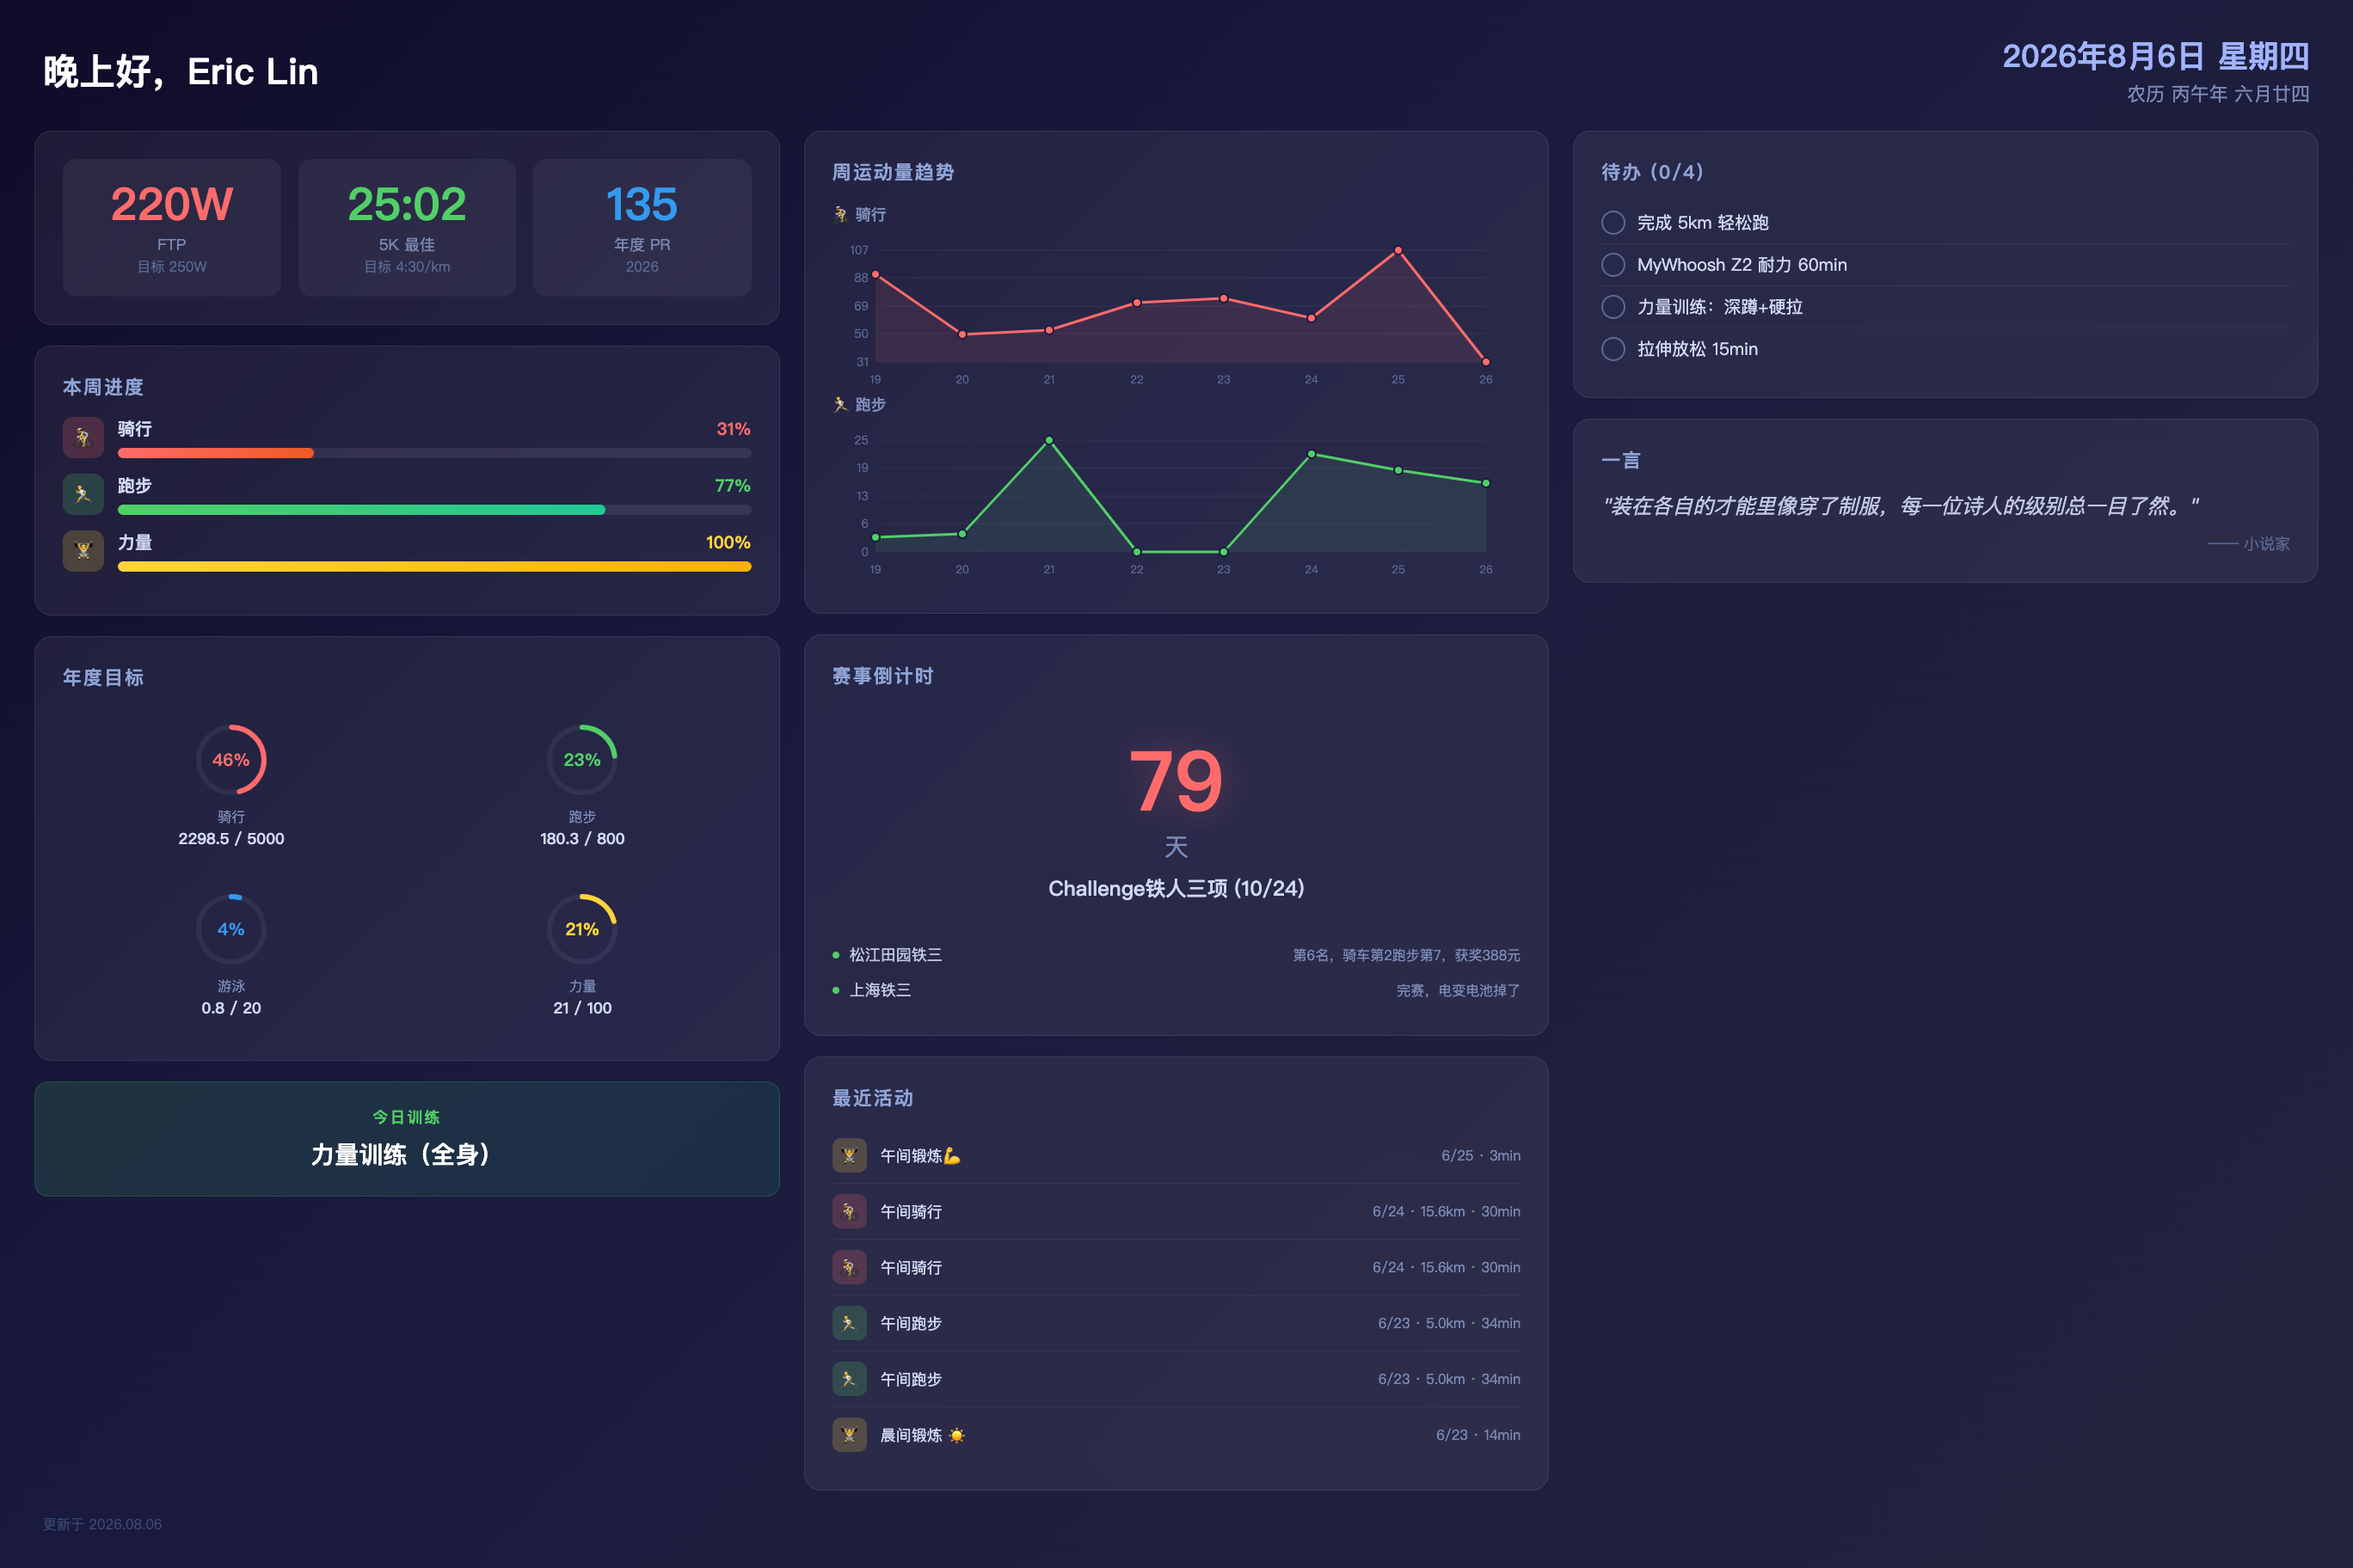
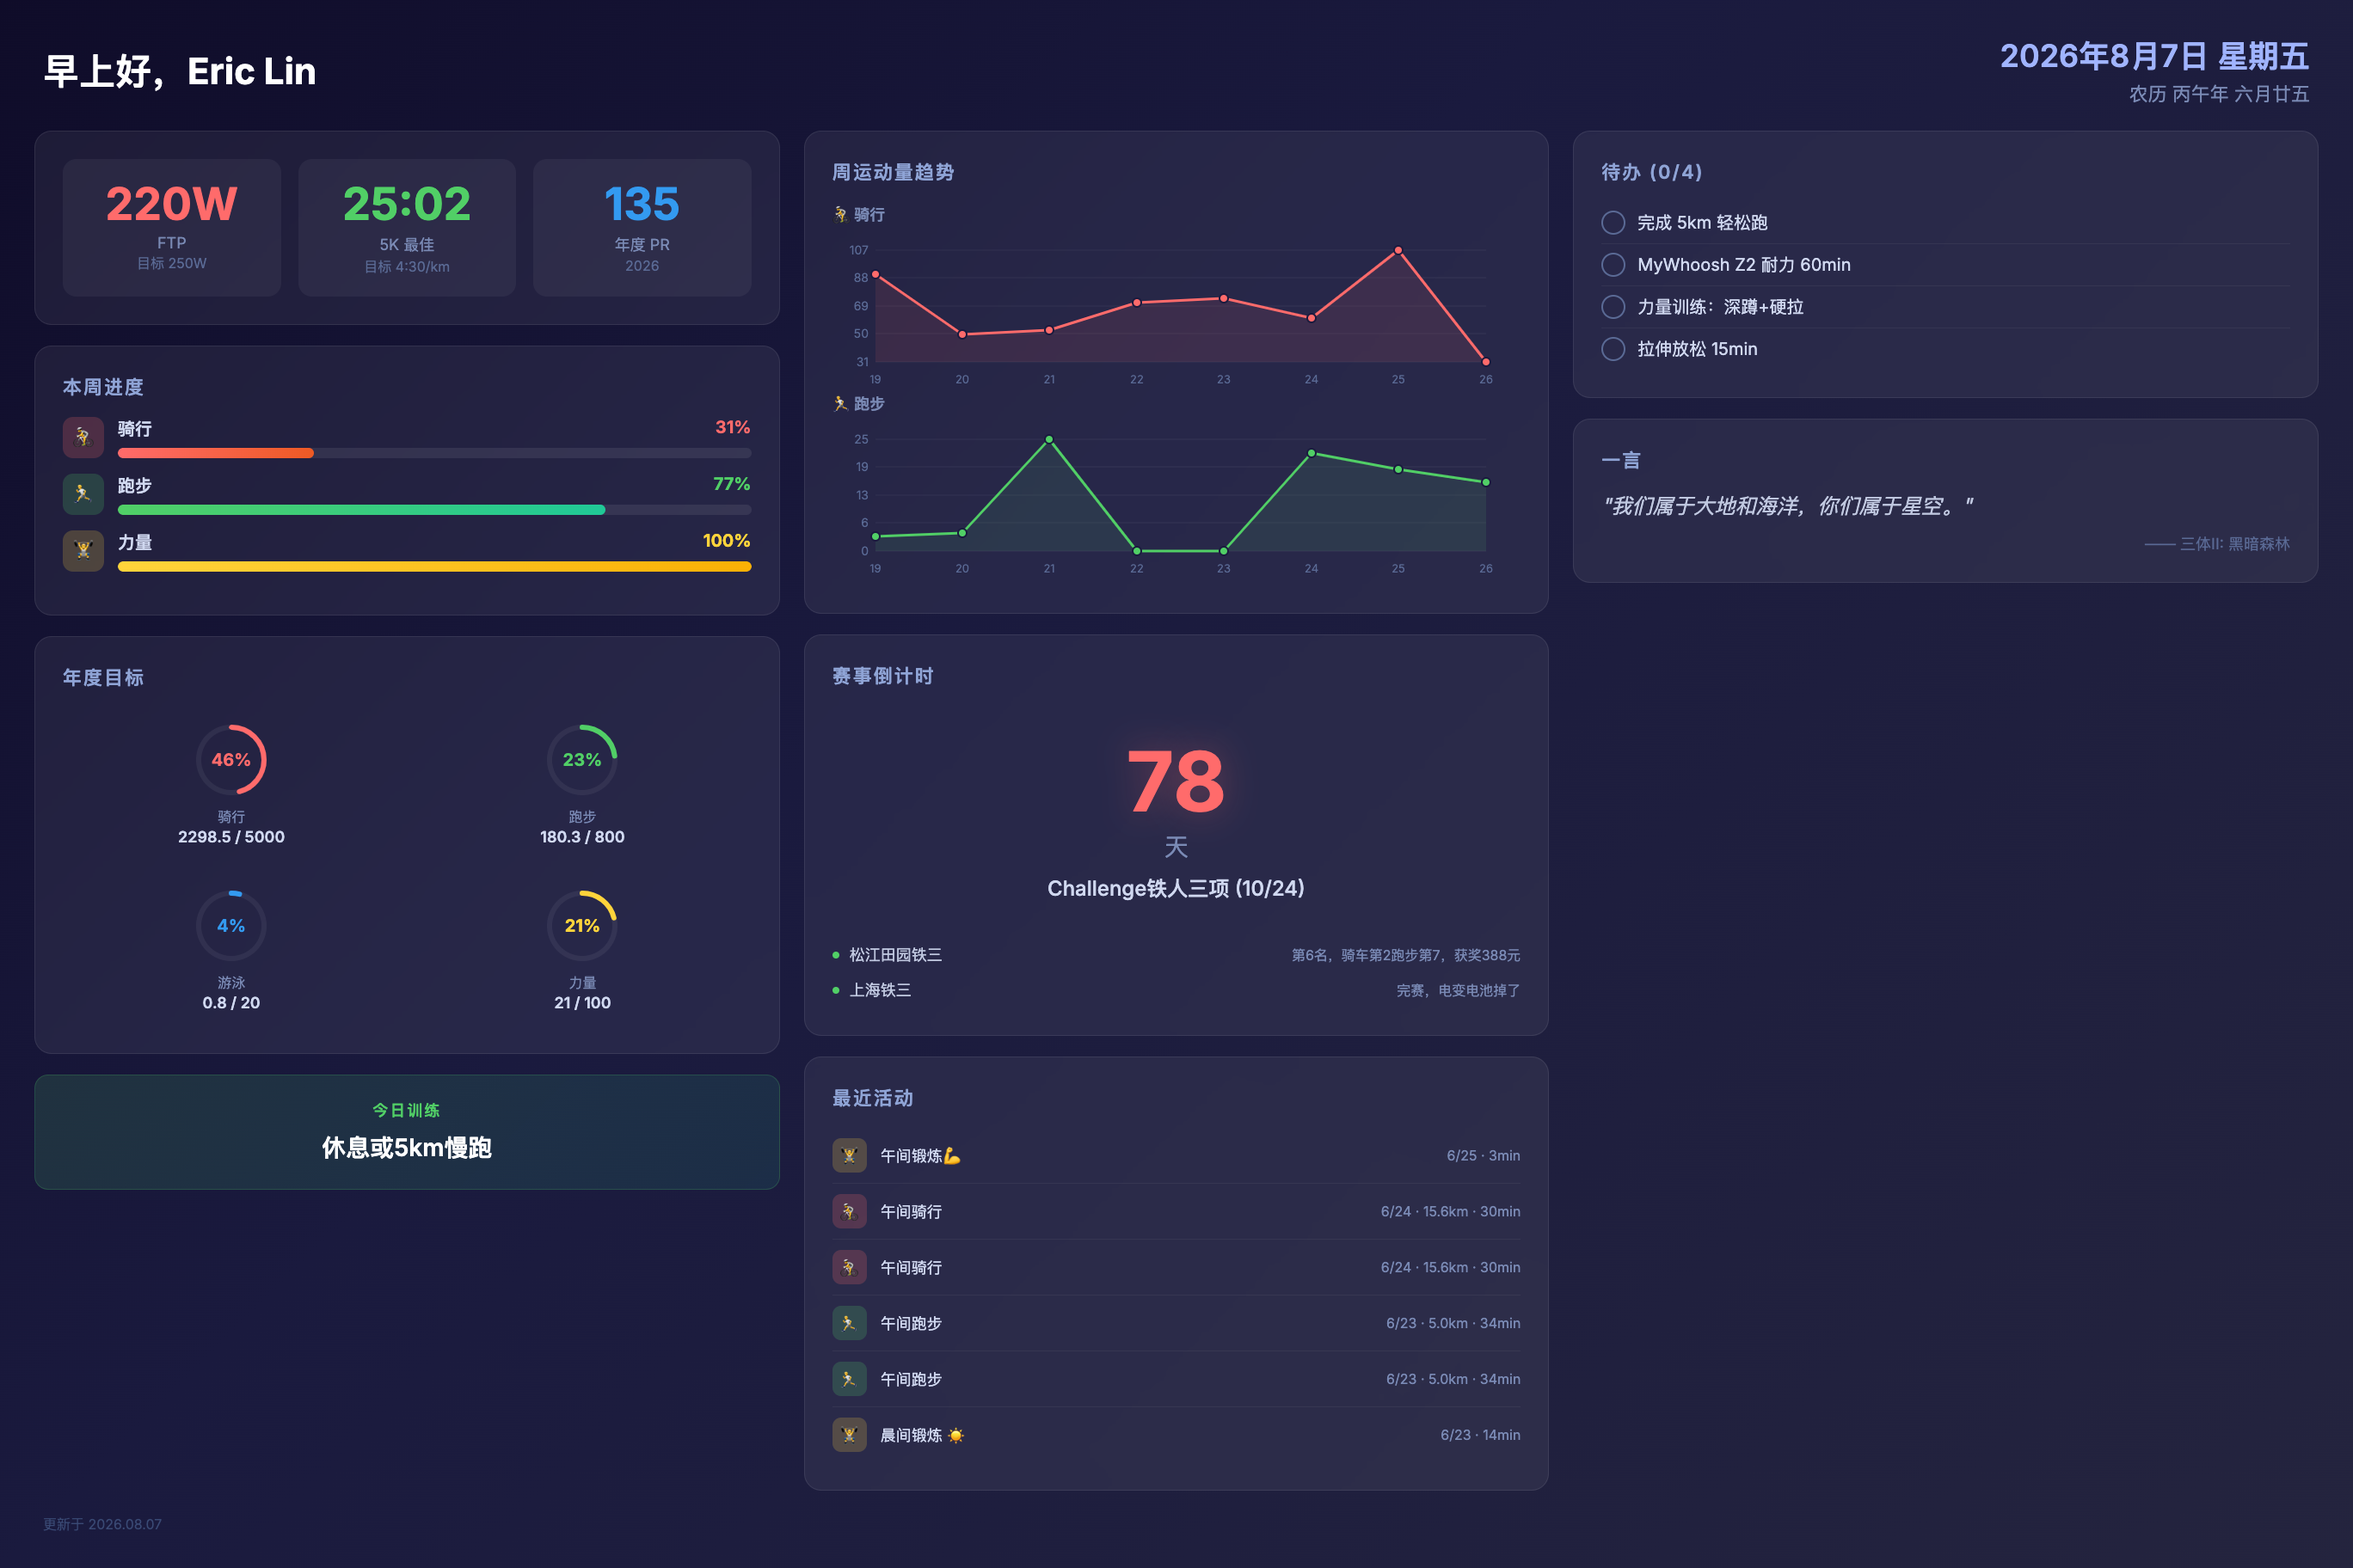
deploy: 2026-08-07-07:00

diff --git a/screensaver.html b/screensaver.html
@@ -490,13 +490,13 @@ html, body {
 <!-- ===== TOP BAR ===== -->
 <div class="top-bar">
   <div>
-    <div class="greeting">晚上好，Eric Lin</div>
+    <div class="greeting">早上好，Eric Lin</div>
     
   </div>
   <div class="date-info">
-    <div class="solar-date">2026年8月6日 星期四</div>
+    <div class="solar-date">2026年8月7日 星期五</div>
     
-    <div class="lunar-date">农历 丙午年 六月廿四</div>
+    <div class="lunar-date">农历 丙午年 六月廿五</div>
     
   </div>
 </div>
@@ -638,7 +638,7 @@ html, body {
   
   <div class="ai-today-card">
     <div class="ai-today-label">今日训练</div>
-    <div class="ai-today-text">力量训练（全身）</div>
+    <div class="ai-today-text">休息或5km慢跑</div>
   </div>
   
 
@@ -732,7 +732,7 @@ html, body {
   <div class="card">
     <div class="card-title">赛事倒计时</div>
     <div class="race-countdown">
-      <div class="countdown-number">79</div>
+      <div class="countdown-number">78</div>
       <div class="countdown-unit">天</div>
       <div class="countdown-name">Challenge铁人三项 (10/24)</div>
     </div>
@@ -850,9 +850,9 @@ html, body {
   
   <div class="card">
     <div class="card-title">一言</div>
-    <div class="quote-text">"装在各自的才能里像穿了制服，每一位诗人的级别总一目了然。"</div>
+    <div class="quote-text">"我们属于大地和海洋，你们属于星空。"</div>
     
-    <div class="quote-from">—— 小说家</div>
+    <div class="quote-from">—— 三体II: 黑暗森林</div>
     
   </div>
   
@@ -861,7 +861,7 @@ html, body {
 
 <!-- ===== BOTTOM BAR ===== -->
 <div class="bottom-bar">
-  <div class="update-time">更新于 2026.08.06</div>
+  <div class="update-time">更新于 2026.08.07</div>
 </div>
 
 </div>

diff --git a/index.html b/index.html
@@ -74,7 +74,7 @@ html, body {
 <table class="header-table">
   <tr>
     <td class="header-left">Eric Lin · 运动</td>
-    <td class="header-right">2026.08.06</td>
+    <td class="header-right">2026.08.07</td>
   </tr>
 </table>
 
@@ -225,17 +225,10 @@ html, body {
 <div class="ai-plan">
   <div class="ai-plan-title">AI 训练建议</div>
   
-  <div class="ai-today">今日: MyWhoosh 间歇 6×3min 高功率</div>
+  <div class="ai-today">今日: 力量训练（全身）</div>
   
   
   <table class="ai-weekly">
-    
-    <tr>
-      <td class="day">周四</td>
-      
-      <td>MyWhoosh 间歇 6×3min 高功率</td>
-      
-    </tr>
     
     <tr>
       <td class="day">周五</td>
@@ -279,6 +272,13 @@ html, body {
       
     </tr>
     
+    <tr>
+      <td class="day">周四</td>
+      
+      <td>MyWhoosh 间歇 6×3min 高功率</td>
+      
+    </tr>
+    
   </table>
   
   
@@ -293,7 +293,7 @@ html, body {
   <p class="section-title">即将到来</p>
   
   <div class="countdown-box">
-    <div class="countdown-days">79</div>
+    <div class="countdown-days">78</div>
     <div class="countdown-label">距 Challenge铁人三项 (10/24)</div>
   </div>
   

diff --git a/life.html b/life.html
@@ -89,7 +89,7 @@ html, body {
 <table class="header-table">
   <tr>
     <td class="header-left">生活</td>
-    <td class="header-right">2026.08.06</td>
+    <td class="header-right">2026.08.07</td>
   </tr>
 </table>
 
@@ -139,10 +139,10 @@ html, body {
   <p class="section-title">📅 今日</p>
   <table class="data-table">
     <tr>
-      <td>2026年8月6日 星期三</td>
+      <td>2026年8月7日 星期四</td>
     </tr>
     <tr>
-      <td>农历丙午年 六月廿四</td>
+      <td>农历丙午年 六月廿五</td>
     </tr>
   </table>
 </div>
@@ -193,9 +193,9 @@ html, body {
 
 <div class="box">
   <p class="section-title">💬 一言</p>
-  <p class="quote-text">装在各自的才能里像穿了制服，每一位诗人的级别总一目了然。</p>
+  <p class="quote-text">我们属于大地和海洋，你们属于星空。</p>
   
-  <p class="quote-from">—— 小说家</p>
+  <p class="quote-from">—— 三体II: 黑暗森林</p>
   
 </div>
 

diff --git a/work.html b/work.html
@@ -89,7 +89,7 @@ html, body {
 <table class="header-table">
   <tr>
     <td class="header-left">工作</td>
-    <td class="header-right">2026.08.06</td>
+    <td class="header-right">2026.08.07</td>
   </tr>
 </table>
 
